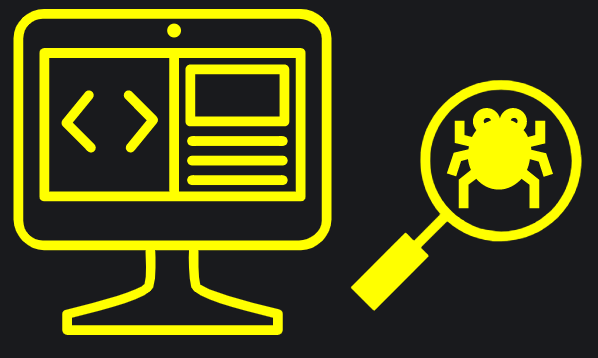
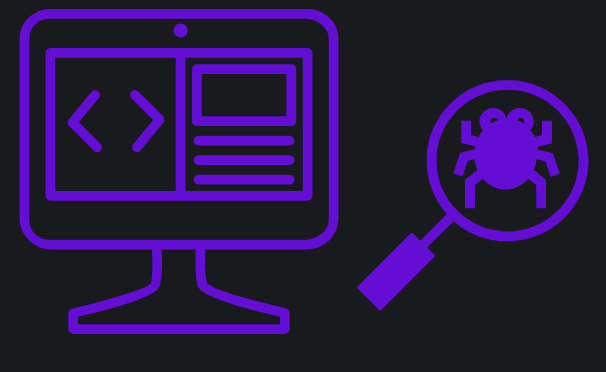
Edits in the color of Dark Theme

diff --git a/portofolio-app/src/screens/Home.jsx b/portofolio-app/src/screens/Home.jsx
@@ -1,7 +1,7 @@
 import React, { useState } from "react";
 import { useMediaQuery } from "react-responsive";
-import Logo from "../assets/logo.png";
-import DarkLogo from "../assets/dark-logo.PNG";
+import Logo from "../assets/glasses.PNG";
+import DarkLogo from "../assets/dark-glasses.PNG";
 import ProfileImg from "../assets/profile.jpg";
 import DarkBug from "../assets/dark-bug.PNG";
 import Bug from "../assets/bug.PNG";
@@ -26,14 +26,18 @@ const Home = () => {
 
   const [dark, setDark] = useState(false);
   const [showDrawer, setShowDrawer] = useState(false);
+  const [MyLogo,setMyLogo] = useState(Logo);
 
   const handleDark = value => {
     setDark(value);
+    setMyLogo(value? DarkLogo:Logo);
   };
 
   const handleDrawer = () => {
     setShowDrawer(!showDrawer);
   };
+
+
 
   // styling section
 
@@ -66,7 +70,7 @@ const Home = () => {
       maxWidth: isDesktopOrLaptop ? "50%" : "100%"
     },
     aboutTitle: {
-      color: dark ? "yellow" : "#d52121",
+      color: dark ? "#640dd4" : "#d52121",
       fontSize: isDesktopOrLaptop ? "50px" : "30px",
       fontWeight: "bold",
       fontFamily: "Comic Sans MS"
@@ -84,7 +88,7 @@ const Home = () => {
     imageShadow: {
       width: isDesktopOrLaptop ? "31em" : "22em",
       height: isDesktopOrLaptop ? "25em" : "18em",
-      backgroundColor: dark ? "yellow" : "#d52121",
+      backgroundColor: dark ? "#640dd4" : "#d52121",
       marginLeft: isDesktopOrLaptop ? "10px" : "0px",
       marginTop: isDesktopOrLaptop ? "0px" : "150px"
     },
@@ -102,6 +106,20 @@ const Home = () => {
       flexDirection: "row",
       justifyContent: "space-around",
       marginTop: isDesktopOrLaptop ? "0px" : "50px"
+    },
+    separator:{
+      width:'100%',
+      minHeight:'400px',
+      marginBottom:'50px',
+      backgroundColor:'#d52121'
+    },
+    projectsTitle: {
+      fontSize: '50px',
+      fontWeight: 'bold',
+      fontFamily:  'Comic Sans MS', 
+      color: 'white',
+      textAlign: 'center',
+      padding: '50px'
     }
   };
 
@@ -111,14 +129,14 @@ const Home = () => {
     <div style={styles.container}>
       {isDesktopOrLaptop && (
         <div style={styles.header}>
-          <img src={dark ? DarkLogo : Logo} alt="logo" width="200px" />
+          <img src={MyLogo} alt="logo" width="200px" />
           <Navbar dark={dark} />
           <ThemeButton dark={dark} handleDark={handleDark} />
         </div>
       )}
       {isTabletOrMobile && (
         <div style={styles.header}>
-          <img src={dark ? DarkLogo : Logo} alt="logo" width="110px" />
+          <img src={MyLogo} alt="logo" width="110px" />
           <div onClick={handleDrawer}>
             {showDrawer ? (
               <CloseIcon style={styles.drawerIcon} />
@@ -164,6 +182,14 @@ const Home = () => {
             width={isDesktopOrLaptop ? "600px" : "400px"}
           />
         )}
+      </div>
+      <div style={styles.separator}>
+          <div style={styles.projectsTitle}>
+            My Projects
+          </div>
+          <div style={styles.projectsTitle}>
+            My Projects
+          </div>
       </div>
     </div>
   );

diff --git a/portofolio-app/src/screens/sideComponents/Drawer.jsx b/portofolio-app/src/screens/sideComponents/Drawer.jsx
@@ -7,13 +7,16 @@ const Drawer = ({dark,handleDark,handleDrawer}) => {
             zIndex: 2,
             position: 'absolute',
             width: '100%',
-            backgroundColor: dark? 'yellow':'#d52121',
+            backgroundColor: dark? '#640dd4':'#d52121',
         },
         drawerItem:{
-            color: dark? '#191a1d' : 'white',
+            color: dark? '#fff' : 'white',
             padding: '20px 0px 20px 20px',
-            borderBottom: '1px solid '+ (dark? '#191a1d' : '#fff'),
-            margin:'0px'
+            borderBottom: '1px solid '+ (dark? '#fff' : '#fff'),
+            margin:'0px',
+            fontWeight: 'bold',
+            fontSize: '20px',
+            fontFamily: 'Comic Sans MS'
         }
     }
 

diff --git a/portofolio-app/src/screens/sideComponents/ThemeButton.jsx b/portofolio-app/src/screens/sideComponents/ThemeButton.jsx
@@ -4,14 +4,15 @@ const ThemeButton = ({dark,handleDark}) => {
 
     const styles = {
         themeContainer : {
-            backgroundColor: dark? 'yellow' : '#d52121',
+            backgroundColor: dark? '#640dd4' : '#d52121',
             color: dark ? '#191a1d':'#fff',
             borderRadius: '20px',
             padding: '0px 20px',
             fontSize: '20px',
             fontWeight: 'bold',
             fontFamily:  'Comic Sans MS', 
-            cursor: 'pointer'
+            cursor: 'pointer',
+            maxHeight:'70px'
         }
     }
 

diff --git a/portofolio-app/src/screens/sideComponents/Navbar.jsx b/portofolio-app/src/screens/sideComponents/Navbar.jsx
@@ -23,7 +23,7 @@ const Navbar = ({ dark }) => {
   };
 
   const hoverAction = e => {
-    e.target.style.backgroundColor = dark ? "yellow" : "#d52121";
+    e.target.style.backgroundColor = dark ? "#640dd4" : "#d52121";
     e.target.style.color = dark ? "#191a1d" : "#fff";
   };
 
